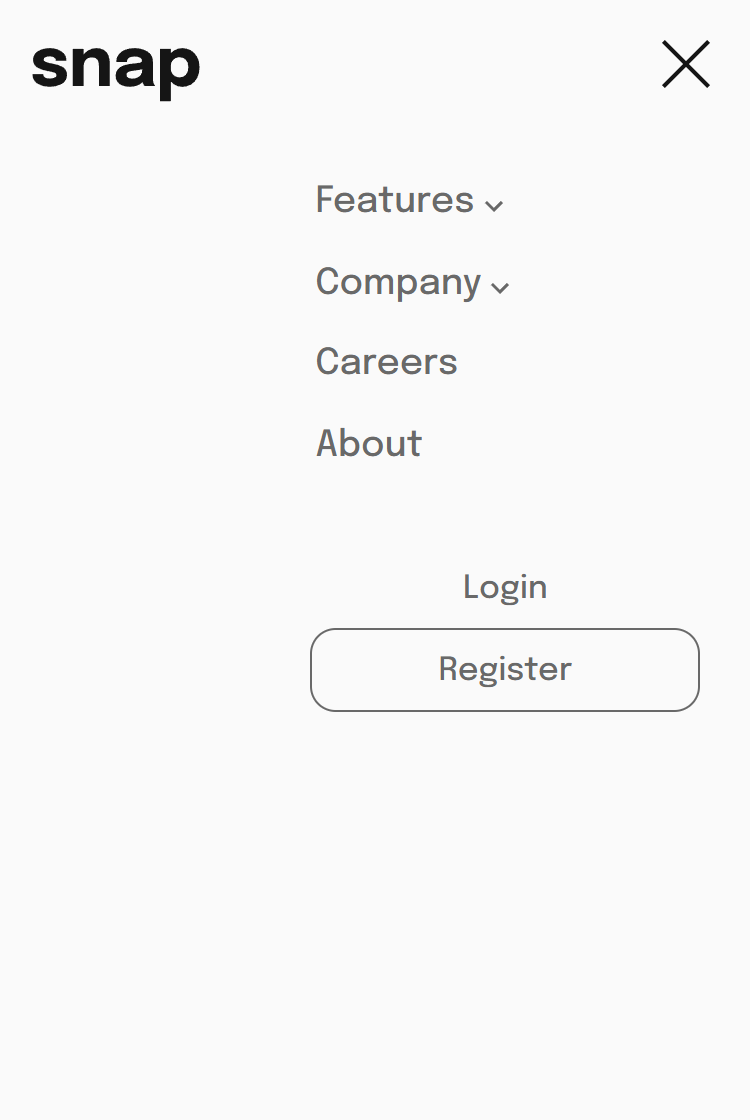
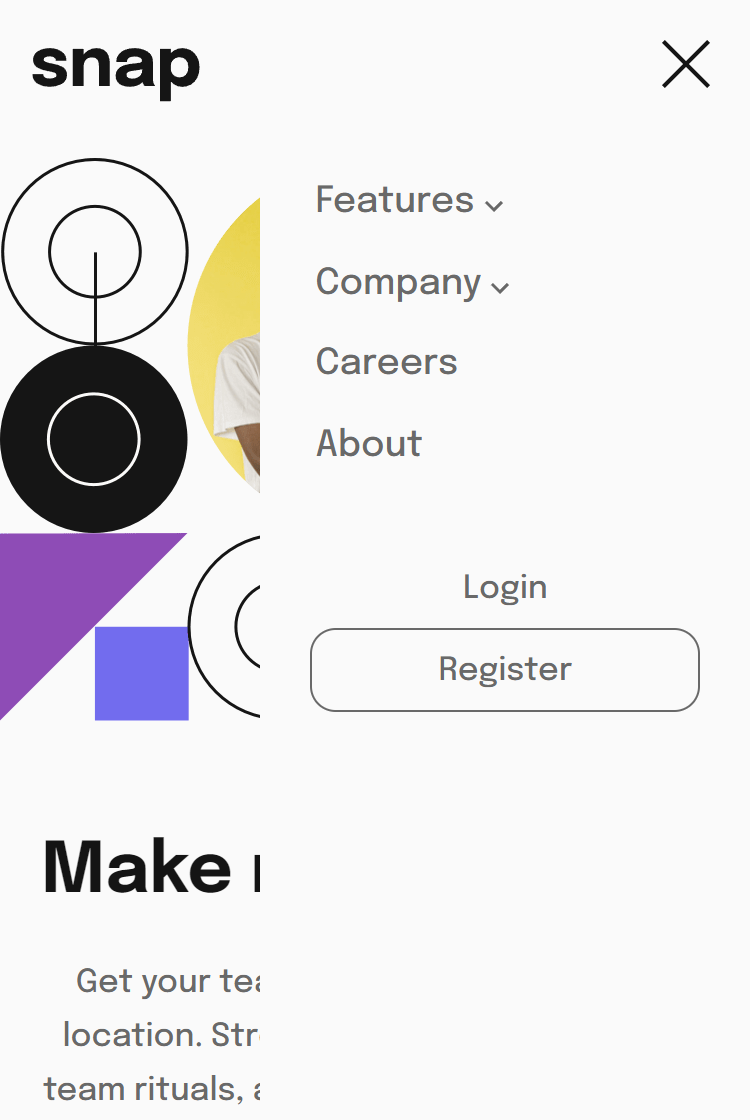
Docs readme update

diff --git a/assets/css/navbar.css b/assets/css/navbar.css
@@ -16,7 +16,7 @@ header {
 
 .mobile__menu {
     background: var(--branco);
-    position: absolute;
+    position: fixed;
     right: 0;
     top: 0;
     padding: 1.2rem;

diff --git a/README.md b/README.md
@@ -32,7 +32,7 @@ Os usuários devem ser capazes de:
 
 - [x] Preparativos da pagina HTML e CSS para mobile
 - [x] Barra de navegação
-- [ ] Layout versão mobile
+- [x] Layout versão mobile
 - [ ] Layout versão desktop
 - [ ] Menus de nagavegação
 - [ ] Elementos JavaScript
